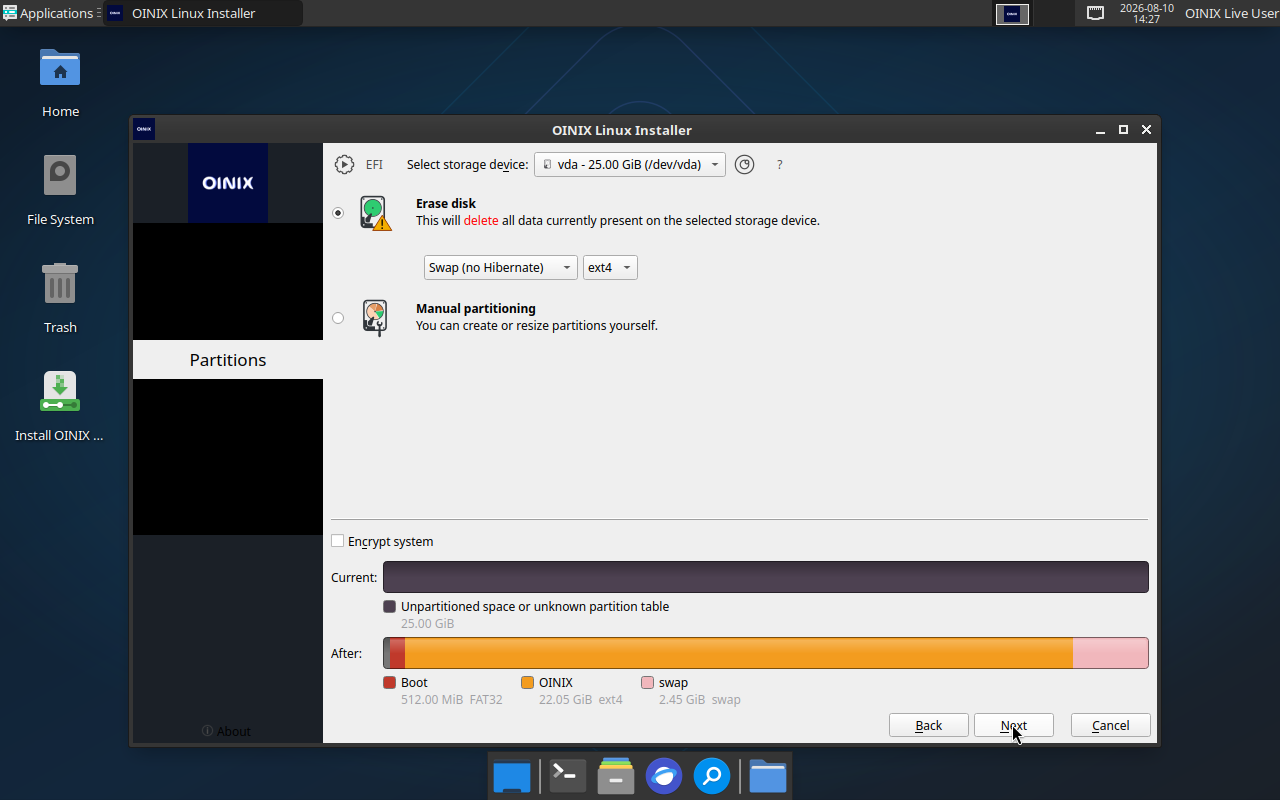
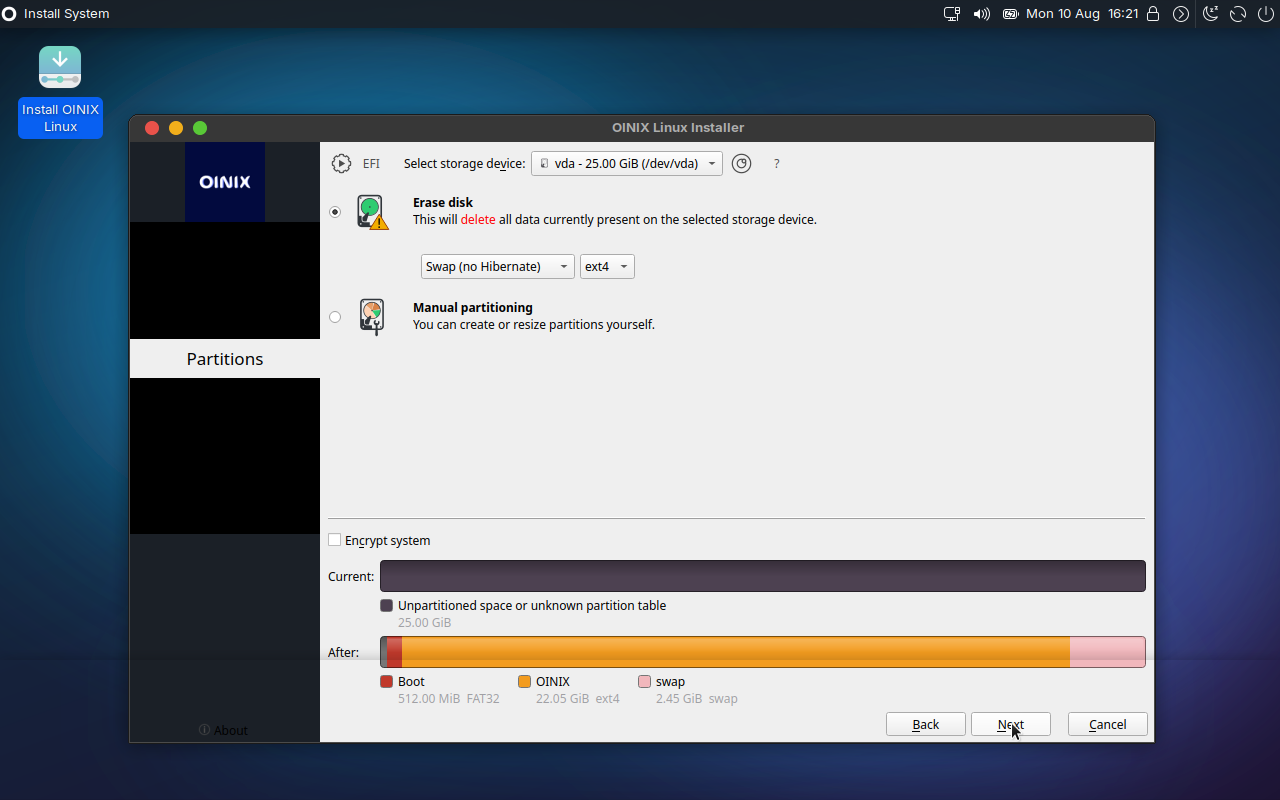
Update the README screenshots to the macOS-styled desktop
Captured from the 2026.08.10 release image with tests/boot-check.py: the live
desktop, the OINIX system menu open in the top bar, and the installer's
welcome and partitioning pages.

diff --git a/README.md b/README.md
@@ -26,11 +26,13 @@ installer.
 
 ### The desktop
 
-A 28px panel across the top stands in for the macOS menu bar: the OINIX logo
-opens a system menu (About, Settings, Sleep, Restart, Shut Down), and next to
-it `vala-panel-appmenu` renders the focused application's own menubar. Window
-controls sit on the left. Plank provides the dock. `Super` takes the place of
-`Command`, so `Super+Space` opens the application finder as Spotlight does.
+A 28px bar across the top stands in for the macOS menu bar: the OINIX glyph
+opens a system menu, and beside it `vala-panel-appmenu` renders the focused
+application's own menubar. Window controls sit on the left, Plank provides the
+dock, and `Super` takes the place of `Command` — `Super+Space` opens the
+application finder the way Spotlight does.
+
+<p align="center"><img src="assets/screenshots/system-menu.png" width="90%" alt="The OINIX system menu open in the top bar"></p>
 
 ## Build
 
